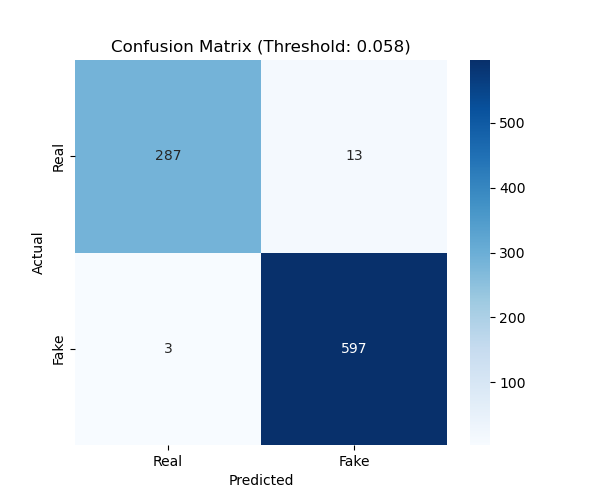
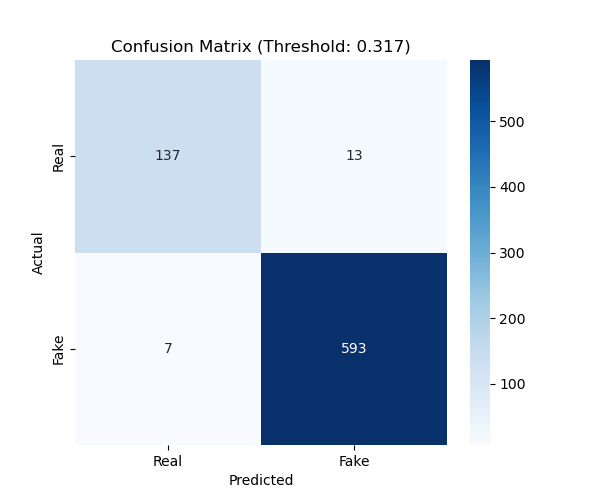
still good dead code elimination with dataset size reduced

diff --git a/main_federated.py b/main_federated.py
@@ -188,18 +188,6 @@ def main():
     from collections import Counter
     train_labels = [s[1] for s in train_samples]
     counts = Counter(train_labels)
-    # We are using a WeightedRandomSampler to balance the batches perfectly.
-    # However, for the Teacher, applying class_weights on top of the sampler acts as an 
-    # extreme "Anomaly Detection" bias. It forces the 35M param ResNet to over-index on 
-    # pristine Reals (25x importance), which empirically yields much higher validation AUC 
-    # on unseen deepfakes. We will use this for the Teacher, but disable it for the Student.
-    n_real = counts[0]
-    n_fake = counts[1]
-    n_total = n_real + n_fake
-    w_real = n_total / (2.0 * max(n_real, 1))
-    w_fake = n_total / (2.0 * max(n_fake, 1))
-    class_weights = torch.tensor([w_real, w_fake], dtype=torch.float32).to(device)
-    print(f"  Teacher Class weights: real={w_real:.2f}, fake={w_fake:.2f} (Anomaly Detection Mode)")
 
     teacher_generator = make_generator(seed)
     # Create a WeightedRandomSampler to ensure 50/50 real/fake in every batch.

diff --git a/main.py b/main.py
@@ -133,10 +133,6 @@ def main():
     val_dataset   = DeepfakeDataset(val_samples,   augment=False)
     test_dataset  = DeepfakeDataset(test_samples,  augment=False)
 
-    train_labels = [s[1] for s in train_samples]
-    counts  = Counter(train_labels)
-    class_weights = torch.tensor([1.0 / counts[0], 1.0 / counts[1]], dtype=torch.float32).to(device)
-
     def _build_train_loader(dataset, loader_seed):
         gen = make_generator(loader_seed)
         return DataLoader(
